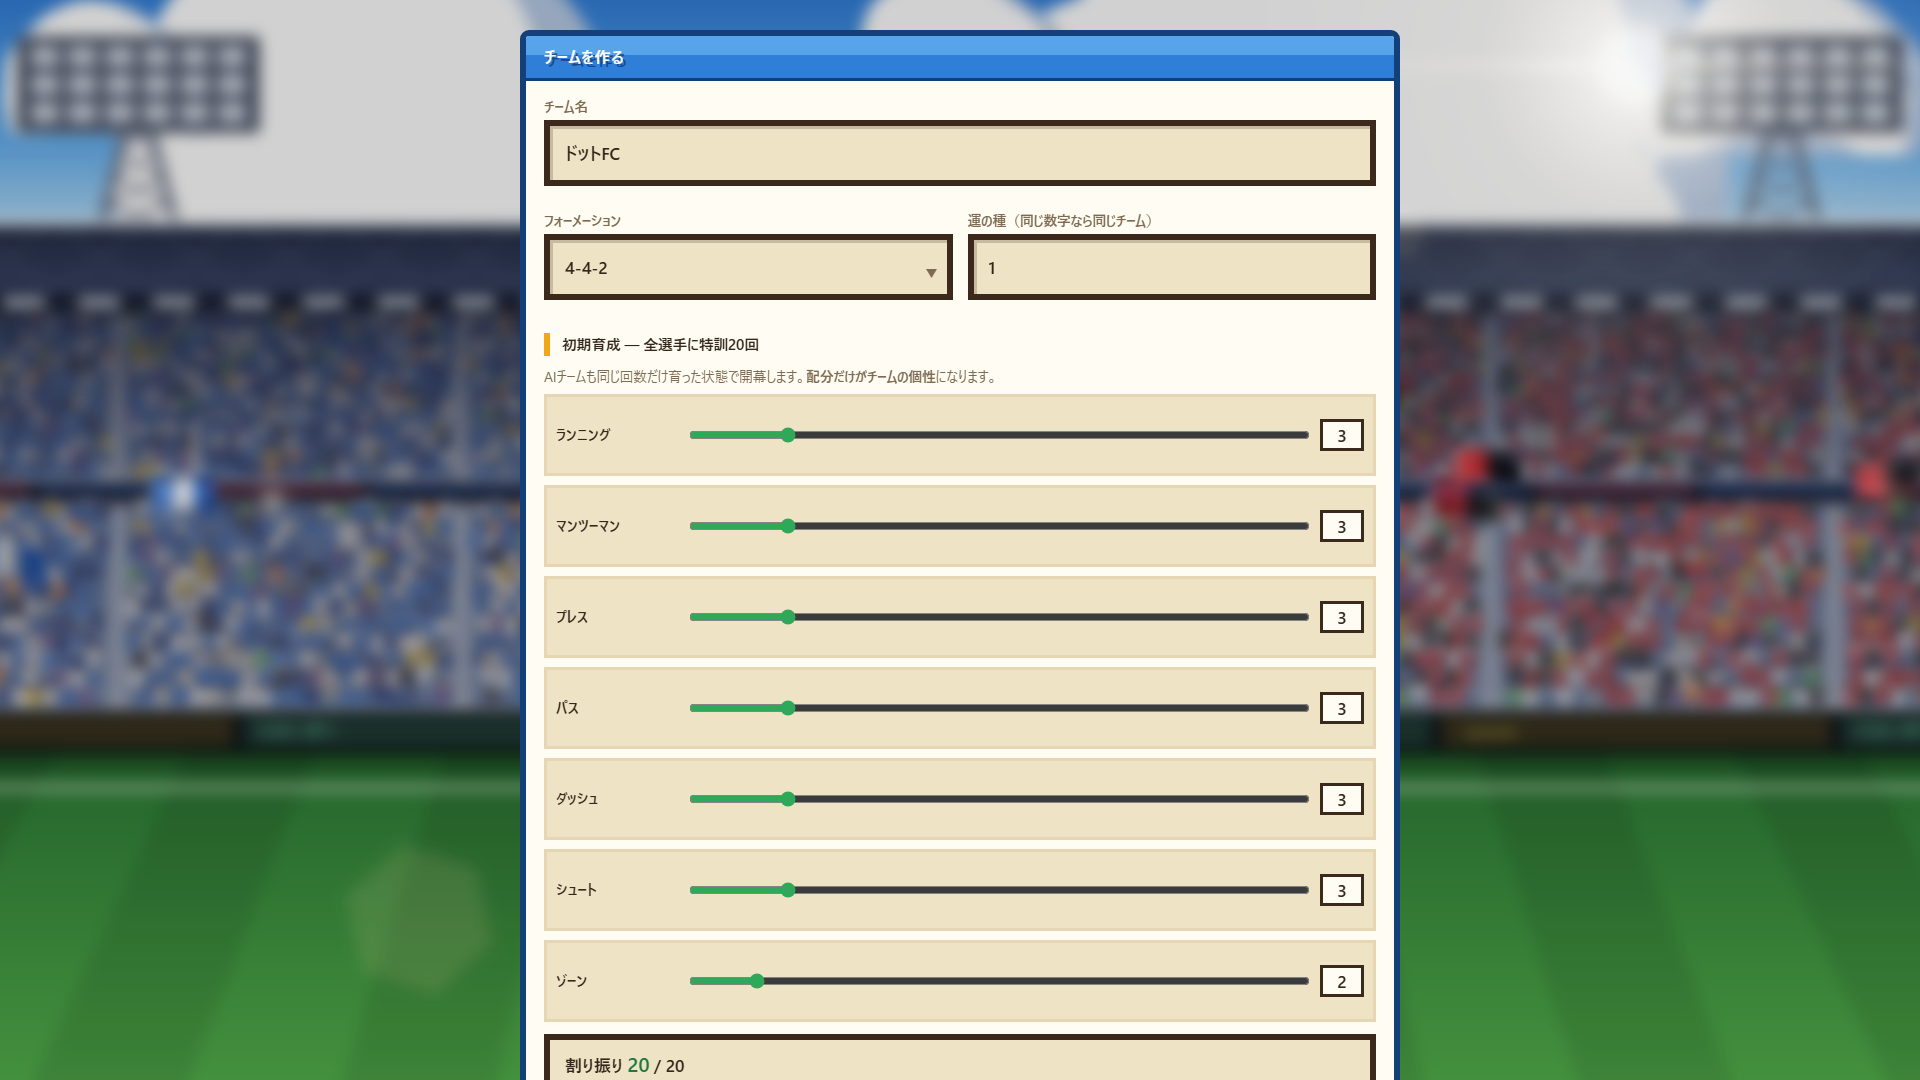
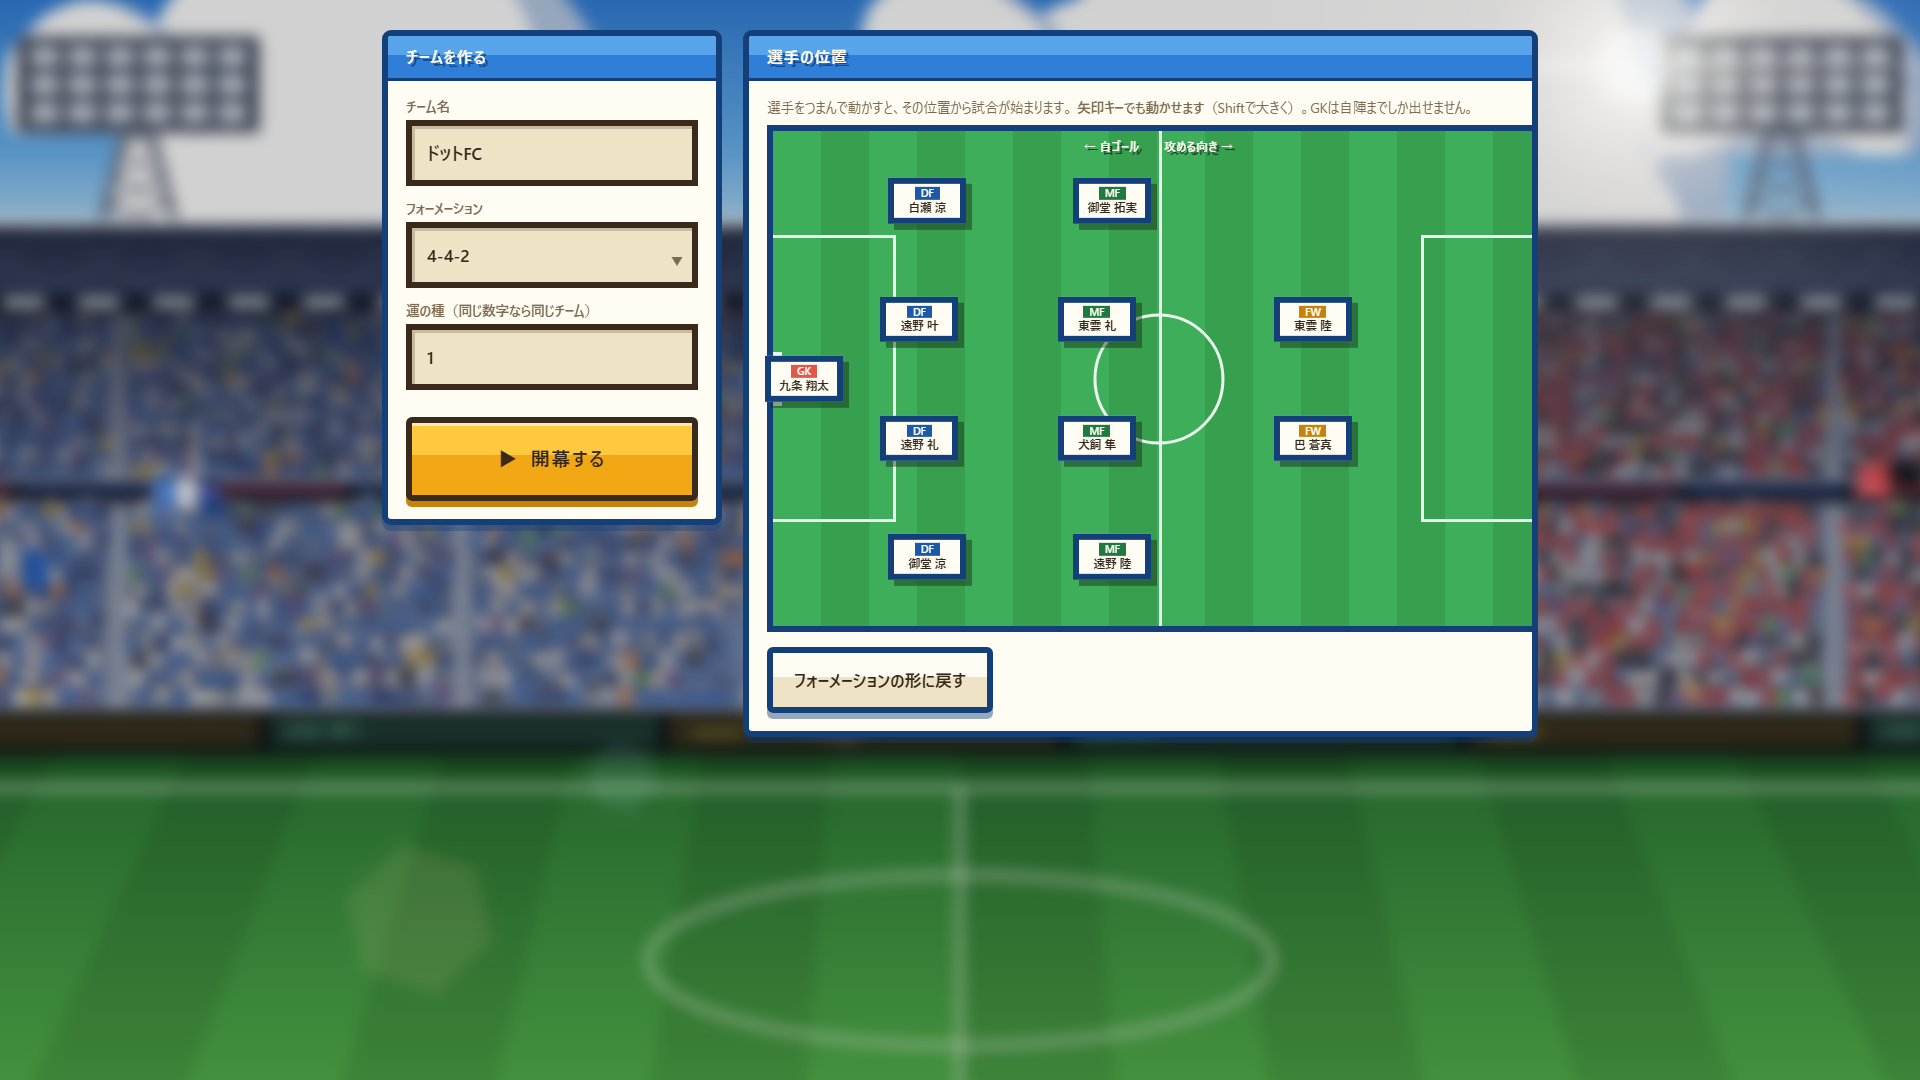
チームを作る画面を2段組にする（左=名前とフォーメーション／右=選手の位置）
オーナー指示「ここ自体を飛ばして、チーム名とフォーメーションだけ指定できる画面を左に、
右に選手の細かい位置を調整できるように」。

- 左: チーム名 / フォーメーション / 運の種 / 開幕する
- 右: 配置盤（事務所と同じもの）。開幕前から選手を置ける
- 初期育成の7本スライダーは画面から外した。plan を渡さないと
  src/sim/presets.ts の既定の配分で全員が育つ
  🔴 結果として、チームの個性はフォーメーションと配置だけになる
     （コードには「配分をプレイヤーが決めることが最初の選択そのもの」と残っている）

🔴 まだチームが無い状態で盤を描く必要があるので、api.previewLineup() を足した。
   使い捨てのチームを組んで並びだけ返し、career は作らない。
   作ってしまうと「開幕していないのにゲームが始まっている」状態ができて、
   途中でやめたときに中途半端なセーブが残る。
   名前も本物（同じ運の種なら開幕後と同じ11人）。仮名だと
   「開幕したら知らない名前になっていた」になる。

🔴 配置は開幕後に本物のチームへ入れ直す（盤は使い捨てのチームで描いているため）。
🔴 フォーメーションを変えたら配置の下書きは捨てる。名前と運の種は顔ぶれが
   変わるだけなので位置は保つ。

ついでに直した: 盤の overflow を .board から .board-grass へ移した。
ゴールライン上に立つ GK の駒が左端で半分切れていた。芝と白線だけ切り、駒は外へ出す。

npm run check / npm test 255件すべてPASS。

diff --git a/src/web/main.ts b/src/web/main.ts
@@ -35,7 +35,9 @@ function el<K extends keyof HTMLElementTagNameMap>(tag: K, cls?: string | null,
 
 let boot: Bootstrap | null = null;        // 変わらない情報（カード一覧・選択肢）
 let view: View | null = null;             // いまの状態
-let plan: Record<string, number> = {};    // 初期育成の配分
+/* チーム作成の画面で触っている配置の下書き。まだチームが無いので、ここに持つ。
+   🔑 `null` は「既定のまま触っていない」。触っていなければ開幕時に何も渡さない。 */
+let setupSlots: [number, number][] | null = null;
 let selectedPlayer: number | null = null;
 let selectedCards: string[] = [];
 let matchData: PlayNextResult | null = null;
@@ -172,64 +174,35 @@ function hasSave(): boolean {
   }
 }
 
-/* -------------------------------------------------- チーム作成の初期育成 */
+/* ------------------------------------------------ チーム作成（配置の下書き） */
 
-function renderPlanRows(): void {
-  const rows = $("planRows");
-  rows.textContent = "";
-  for (const [key, card] of Object.entries(B().cards)) {
-    const row = el("div", "plan-row");
-    row.append(el("span", null, card.label));
-    const range = el("input");
-    range.type = "range";
-    range.min = "0";
-    range.max = String(B().trainings_per_player);
-    range.value = String(plan[key] || 0);
-    range.addEventListener("input", () => {
-      plan[key] = Number(range.value);
-      updatePlanTotal();
-    });
-    const out = el("output", null, String(plan[key] || 0));
-    out.dataset.key = key;
-    row.append(range, out);
-    rows.append(row);
-  }
-  updatePlanTotal();
+/**
+ * チーム作成の画面の配置盤。**まだチームが無い状態**で描く。
+ *
+ * 🔴 ここで `api.newGame` を呼ばない。呼ぶと「開幕していないのにゲームが始まっている」
+ *    状態ができて、途中でやめたときに中途半端なセーブが残る。
+ *    `api.previewLineup()` が使い捨てのチームを組んで、並びだけ返す。
+ * 🔑 名前も本物（同じ運の種なら開幕後と同じ11人）。仮名で並べると
+ *    「開幕したら知らない名前になっていた」になる。
+ */
+function renderSetupBoard(): void {
+  const list = call(() => api.previewLineup($<HTMLInputElement>("teamName").value,
+                                            Number($<HTMLInputElement>("seed").value),
+                                            $<HTMLSelectElement>("formation").value));
+  if (!list) return;
+  /* 触った配置があれば、その座標を重ねて見せる（名前と位置の名はいまの顔ぶれから） */
+  const draft = setupSlots;
+  const shown = draft === null ? list
+    : list.map((sp, i) => ({ ...sp, x: draft[i]?.[0] ?? sp.x, y: draft[i]?.[1] ?? sp.y }));
+  Board.render($("setupBoard"), shown, {
+    commit(spots) {
+      setupSlots = spots;
+      $("setupBoardMsg").textContent = "この位置で開幕します。";
+    },
+    say(text) { $("setupBoardMsg").textContent = text; },
+  });
 }
 
-function updatePlanTotal(): void {
-  const total = Object.values(plan).reduce((a, b) => a + b, 0);
-  const target = B().trainings_per_player;
-  $("planUsed").textContent = String(total);
-  $("planTotal").textContent = String(target);
-  $("planTotalTarget").textContent = String(target);
-  for (const out of $("planRows").querySelectorAll("output")) {
-    out.textContent = String(plan[out.dataset.key ?? ""] || 0);
-  }
-  for (const r of $("planRows").querySelectorAll<HTMLInputElement>('input[type="range"]')) {
-    const key = r.parentElement?.querySelector("output")?.dataset.key ?? "";
-    r.value = String(plan[key] || 0);
-  }
-  /* 🔴 「ちょうど20回」でなければ開幕させない。足りないとAIだけ育った状態で始まる */
-  const ok = total === target;
-  $<HTMLButtonElement>("startBtn").disabled = !ok;
-  $("planWarn").textContent = ok ? ""
-    : (total < target ? `（あと ${target - total} 回）` : `（${total - target} 回 多い）`);
-}
-
-function renderPlanPresets(): void {
-  const box = $("planPresets");
-  box.textContent = "";
-  for (const [name, preset] of Object.entries(B().preset_plans)) {
-    const chip = el("button", "chip", name);
-    chip.type = "button";
-    chip.addEventListener("click", () => {
-      plan = { ...preset };
-      updatePlanTotal();
-    });
-    box.append(chip);
-  }
-}
 
 /* ---------------------------------------------------------------- ホーム */
 
@@ -892,11 +865,8 @@ function main(): void {
 
   boot = call(() => api.bootstrap());
   if (!boot) return;
-  plan = { ...boot.default_plan };
 
   fillSelect($<HTMLSelectElement>("formation"), boot.formations, boot.formations[0] ?? "4-4-2");
-  renderPlanRows();
-  renderPlanPresets();
   $<HTMLButtonElement>("loadBtn").disabled = !hasSave();
   /* 🔑 建物の絵と、押せる場所の位置を**同じ1か所（`city.ts` の SPOTS）から出す**。
         CSS に座標を書き写すと、絵を動かしたときに押せる場所だけ取り残される */
@@ -910,7 +880,29 @@ function main(): void {
   showScreen("boot");
 
   /* ---- タイトル → チーム作成 ---- */
-  $("titleNew").addEventListener("click", () => { showScreen("setup"); });
+  $("titleNew").addEventListener("click", () => {
+    showScreen("setup");
+    setupSlots = null;
+    $("setupBoardMsg").textContent = "";
+    renderSetupBoard();
+  });
+
+  /* 🔴 フォーメーションを変えたら配置の下書きは捨てる。枠の数は4つとも11で同じなので
+        検査は通ってしまうが、4-4-2 のために置いた座標を 3-4-3 に当てても意味が無い。
+     🔑 運の種と名前は**顔ぶれが変わるだけ**なので、置いた位置は保つ。 */
+  $("formation").addEventListener("change", () => {
+    setupSlots = null;
+    $("setupBoardMsg").textContent = "";
+    renderSetupBoard();
+  });
+  for (const id of ["seed", "teamName"]) {
+    $(id).addEventListener("input", () => { renderSetupBoard(); });
+  }
+  $("setupBoardReset").addEventListener("click", () => {
+    setupSlots = null;
+    $("setupBoardMsg").textContent = "フォーメーションの形に戻しました。";
+    renderSetupBoard();
+  });
 
   /* ---- 街から施設へ、施設から街へ ----
      🔑 行き先は押されたボタンの `data-go`、戻りは `data-back` が持つ。
@@ -925,10 +917,20 @@ function main(): void {
 
   /* ---- チーム作成 ---- */
   $("startBtn").addEventListener("click", () => {
-    const out = call(() => api.newGame($<HTMLInputElement>("teamName").value,
-                                       Number($<HTMLInputElement>("seed").value),
-                                       $<HTMLSelectElement>("formation").value, plan));
+    /* 🔑 初期育成の配分は渡さない（2026-10-03 オーナー指示で画面から外した）。
+          省くと `src/sim/presets.ts` の既定の配分で全員が育つ。 */
+    let out = call(() => api.newGame($<HTMLInputElement>("teamName").value,
+                                     Number($<HTMLInputElement>("seed").value),
+                                     $<HTMLSelectElement>("formation").value));
     if (!out) return;
+    /* 🔴 配置は**チームができてから**入れる。作る前の盤は使い捨てのチームで
+          描いているので、ここで本物のチームへ入れ直す必要がある。 */
+    const slots = setupSlots;
+    if (slots !== null) {
+      const moved = call(() => api.setLineup(slots));
+      if (!moved) return;
+      out = moved;
+    }
     view = out;
     policyDraft = view.policy.map((r) => ({ ...r }));
     renderHome();

diff --git a/web/index.html b/web/index.html
@@ -71,43 +71,49 @@
 </section>
 
 <!-- ======================================================= チームを作る -->
+<!-- 🔑 2段組。**左で決めて、右で並べる。**（2026-10-03 オーナー指示）
+     左は「チーム名とフォーメーションだけ」。右は開幕前から選手を置ける盤。
+     🔴 右の盤は**まだチームが無い状態**で描く。`api.previewLineup()` が
+        使い捨てのチームを組んで並びだけ返す（`career` は作らない）。 -->
 <section id="setup" class="screen">
-  <div class="panel panel-wide">
-    <h2 class="panel-title">チームを作る</h2>
+  <div class="setup-grid">
 
-    <div class="field">
-      <label for="teamName">チーム名</label>
-      <input id="teamName" type="text" maxlength="12" value="ドットFC" autocomplete="off">
-    </div>
+    <div class="panel setup-left">
+      <h2 class="panel-title">チームを作る</h2>
 
-    <div class="field-row">
+      <div class="field">
+        <label for="teamName">チーム名</label>
+        <input id="teamName" type="text" maxlength="12" value="ドットFC" autocomplete="off">
+      </div>
+
       <div class="field">
         <label for="formation">フォーメーション</label>
         <select id="formation"></select>
       </div>
+
       <div class="field">
         <label for="seed">運の種（同じ数字なら同じチーム）</label>
         <input id="seed" type="number" min="0" max="999999" value="1">
       </div>
+
+      <div class="actions">
+        <button id="startBtn" class="btn btn-primary btn-big">開幕する</button>
+      </div>
     </div>
 
-    <h3 class="sub-title">初期育成 — 全選手に特訓<span id="planTotalTarget">20</span>回</h3>
-    <p class="note">
-      AIチームも同じ回数だけ育った状態で開幕します。<strong>配分だけがチームの個性</strong>になります。
-    </p>
-    <div id="planRows" class="plan-rows"></div>
-    <p class="plan-status">
-      割り振り <strong><span id="planUsed">0</span></strong> / <span id="planTotal">20</span>
-      <span id="planWarn" class="warn"></span>
-    </p>
-    <div class="plan-presets">
-      <span>お手本:</span>
-      <div id="planPresets" class="chip-row"></div>
+    <div class="panel setup-right">
+      <h2 class="panel-title">選手の位置</h2>
+      <p class="note">
+        選手をつまんで動かすと、その位置から試合が始まります。
+        <strong>矢印キーでも動かせます</strong>（Shiftで大きく）。GKは自陣までしか出せません。
+      </p>
+      <div id="setupBoard"></div>
+      <div class="actions">
+        <button id="setupBoardReset" class="btn">フォーメーションの形に戻す</button>
+        <span id="setupBoardMsg" class="note"></span>
+      </div>
     </div>
 
-    <div class="actions">
-      <button id="startBtn" class="btn btn-primary btn-big">開幕する</button>
-    </div>
   </div>
 </section>
 

diff --git a/src/web/api.ts b/src/web/api.ts
@@ -23,7 +23,8 @@ import type { Fixture, StandingsRow, StoredMatchResult } from "../sim/league.ts"
 import { ATTITUDES, FORMATIONS, GK_MAX_X_FRAC, POLICY_ACTIONS, POLICY_CONDITIONS,
          PolicyRule, Tactics, effectiveSlots } from "../sim/model.ts";
 import type { Player, SlotSpot } from "../sim/model.ts";
-import { PRESET_PLANS, TRAININGS_PER_PLAYER, defaultUserPlan } from "../sim/presets.ts";
+import { PRESET_PLANS, TRAININGS_PER_PLAYER, buildUserTeam,
+         defaultUserPlan } from "../sim/presets.ts";
 import type { Plan } from "../sim/presets.ts";
 import { pyRoundN } from "../sim/pymath.ts";
 import { CARDS, FORBIDDEN_PAIRS, getCard, issueText, specialName } from "../sim/training.ts";
@@ -339,6 +340,38 @@ export function setTactics(lineHeight: number, zoneWidth: number, attitude: stri
   if (t.formation !== formation) t.slots = null;
   t.formation = formation;
   return view();
+}
+
+/**
+ * **まだチームを作る前**の配置を見る。チーム作成の画面で使う。
+ *
+ * 🔴 ここで `career` を作らない。作ってしまうと「開幕していないのに
+ *    ゲームが始まっている」状態ができて、途中でやめたときに中途半端なセーブが残る。
+ *    使い捨てのチームを組んで、並びだけ返して捨てる。
+ *
+ * 🔑 名前も本物（同じ運の種なら開幕後と同じ11人になる）。仮名で並べると、
+ *    「開幕したら知らない名前になっていた」になる。
+ */
+export function previewLineup(teamName: string, seed: number, formation: string):
+  LineupSpot[] {
+  if (!(formation in FORMATIONS)) throw new GameError(`未知のフォーメーション: ${formation}`);
+  const name = (teamName ?? "").trim() || "（名前未定）";
+  let team;
+  try {
+    team = buildUserTeam(name, Math.trunc(Number(seed)), formation);
+  } catch (e) {
+    if (e instanceof ValueError) throw new GameError(e.message);
+    throw e;
+  }
+  const slots = effectiveSlots(team.tactics);
+  return Match.assignSlots(team.players, slots).map(([player, slot], i) => ({
+    index: i,
+    pos: slot[0],
+    name: player.name,
+    x: slot[1],
+    y: slot[2],
+    locked_x: slot[0] === "GK" ? GK_MAX_X_FRAC : null,
+  }));
 }
 
 /* ------------------------------------------------------------ 配置（立ち位置） */

diff --git a/web/style.css b/web/style.css
@@ -1453,6 +1453,26 @@ tr.is-me td { color: var(--ink); font-weight: 800; }
   .city-wrap { width: 1920px; }
 }
 
+/* ============================================================ チーム作成
+   🔑 **左で決めて、右で並べる**（2026-10-03 オーナー指示）。
+      左は入力が3つだけなので幅を取らない。右の盤に場所を回す。
+   🔴 狭い窓では**縦に積む**。横に並べたまま縮めると、盤が小さくなりすぎて
+      駒がつまめなくなる（駒は指で触れる大きさが要る）。 */
+.setup-grid {
+  display: grid;
+  grid-template-columns: minmax(0, 20rem) minmax(0, 1fr);
+  gap: calc(var(--px) * 7);
+  align-items: start;
+  max-width: 68rem;
+  margin: calc(var(--px) * 10) auto;
+}
+@media (max-width: 900px) {
+  .setup-grid { grid-template-columns: minmax(0, 1fr); }
+}
+.setup-left, .setup-right { margin-bottom: 0; }
+/* 盤はこの画面では枠いっぱいまで使う（事務所より広く取れる） */
+.setup-right .board { max-width: none; }
+
 /* ============================================================ 節目の演出
    キックオフ・ハーフタイム・試合終了。`src/web/ceremony.ts` が中身を作る。
 
@@ -1598,7 +1618,9 @@ tr.is-me td { color: var(--ink); font-weight: 800; }
   aspect-ratio: 105 / 68;
   border: var(--w-frame) solid var(--ui-edge);
   background: var(--turf);
-  overflow: hidden;
+  /* 🔴 **駒は盤からはみ出してよい**（2026-10-03 の目視）。ここを `hidden` にしていたので、
+        ゴールライン上に立つ GK の駒が左端で**半分切れていた**。
+        芝と白線だけを `.board-grass` 側で切り、駒は外へ出す。 */
   touch-action: none;             /* 🔴 これが無いと、指でつまむと画面ごとスクロールする */
   user-select: none;
 }
@@ -1606,6 +1628,7 @@ tr.is-me td { color: var(--ink); font-weight: 800; }
 .board-grass {
   position: absolute;
   inset: 0;
+  overflow: hidden;
   /* 芝の縞。盤でも縞を敷くと、駒がどのくらい動いたか目で測れる */
   background: repeating-linear-gradient(90deg,
               var(--turf) 0 calc(var(--px) * 16),
